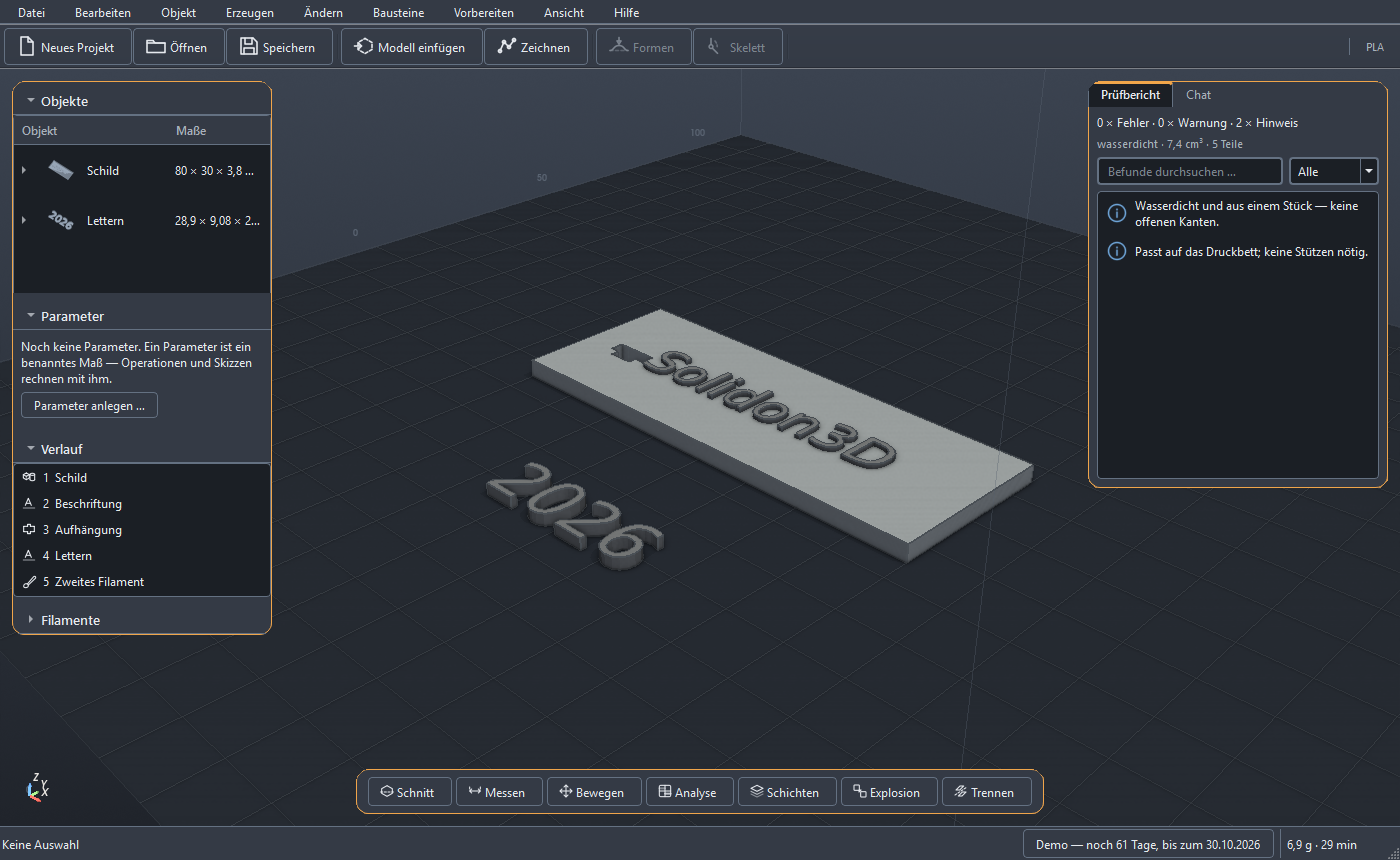
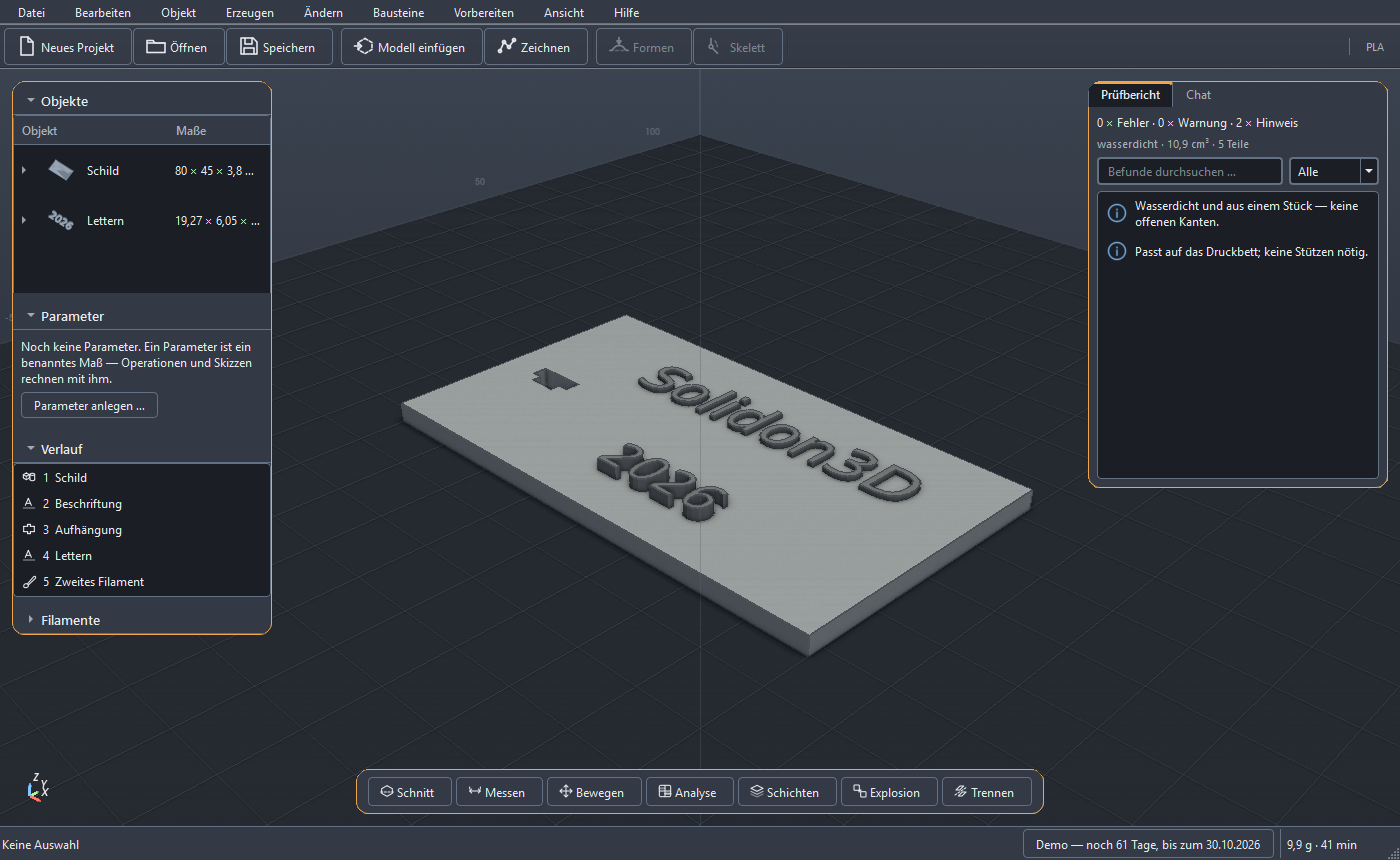
Zwei Kartenbeschriftungen waren als Gliederung gesetzt
Die Seite sprang von der H1 direkt auf Ebene drei: „Linux" und „macOS" in
den Auswahl-Dialogen der Downloadkarte standen als h3 und damit als
Unterpunkt von nichts. Beide Dialoge tragen ihren Namen ohnehin im
aria-label — die sichtbare Zeile wiederholte ihn und kostete dafür die
Gliederung. Sie sind jetzt Absätze mit derselben Größe und Stärke
(gemessen 18,4 px / 700, wie vorher), und die Überschriftenfolge läuft
durchgehend H1 → H2 → H3.

Gefunden hat es 72s Messung; von außen sah die Karte richtig aus, weil sie
richtig aussah.

Dazu der ruhige Zweitwortlaut der Drehbühne in allen sechs Fassungen. Der
Code dafür stand seit je in site.js und las hint.dataset.calm — nur das
Attribut fehlte, und damit lief der Zweig ins Leere: Wer die Bewegung
abgeschaltet hatte, las weiter „scrollen dreht ihn", während Scrollen genau
dann nichts tut.

Der erste Halbsatz bleibt je Sprache unverändert, nur die Bedienung nach dem
Gedankenstrich wechselt. Zwei ganz verschiedene Sätze über dasselbe Bild
wären eine zweite Wahrheit; gemeint ist derselbe Halter, nur ein anderer Weg
zu ihm.

92 Verweise gestempelt, test_website 347 grün.

diff --git a/website/index.html b/website/index.html
@@ -30,7 +30,7 @@
 <meta name="theme-color" content="#f7f6f3" media="(prefers-color-scheme: light)">
 <meta name="theme-color" content="#171614" media="(prefers-color-scheme: dark)">
 <link rel="icon" href="/icon.svg?v=a72d0c52" type="image/svg+xml">
-<link rel="stylesheet" href="style.css?v=dcd43678">
+<link rel="stylesheet" href="style.css?v=6d307ed0">
 <script type="application/ld+json">
 {
   "@context": "https://schema.org",
@@ -225,7 +225,7 @@
           <div class="turntable" tabindex="0" role="img" data-frames="36"
                aria-label="Ein Halter für Filamentrollen, in Solidon3D konstruiert: Grundplatte, zwei Wangen, zwei Laufachsen. Ziehen oder Pfeiltasten drehen ihn."></div>
         </div>
-        <p class="turn-hint">Rollenhalter, in 18 Schritten gebaut — scrollen dreht ihn, oder ziehen</p>
+        <p class="turn-hint" data-calm="Rollenhalter, in 18 Schritten gebaut — ziehen oder Pfeiltasten drehen ihn">Rollenhalter, in 18 Schritten gebaut — scrollen dreht ihn, oder ziehen</p>
 
         <div class="dial">
           <label for="rollenbreite">Rollenbreite</label>
@@ -280,7 +280,7 @@
             <a class="btn" href="/api/count.php?f=Solidon3D-Setup-0.2.2.exe" download="Solidon3D-Setup-0.2.2.exe"><svg viewBox="0 0 24 24" fill="none" stroke="currentColor" stroke-width="2" aria-hidden="true"><path d="M12 3v12" stroke-linecap="round"/><path d="m7 11 5 5 5-5" stroke-linecap="round" stroke-linejoin="round"/><path d="M4 20h16" stroke-linecap="round"/></svg> Windows 10/11 — 199 MB</a>
             <button class="btn ghost" type="button" data-choice="linux"><svg viewBox="0 0 24 24" fill="none" stroke="currentColor" stroke-width="2" aria-hidden="true"><path d="M12 3v12" stroke-linecap="round"/><path d="m7 11 5 5 5-5" stroke-linecap="round" stroke-linejoin="round"/><path d="M4 20h16" stroke-linecap="round"/></svg> Linux — 2 Pakete</button>
             <dialog class="auswahl" id="wahl-linux" aria-label="Linux">
-              <h3>Linux</h3>
+              <p class="auswahl-titel">Linux</p>
               <p class="hinweis">Welches passt, hängt von deinem System ab — jedes enthält dieselbe Anwendung.</p>
             <a class="btn" href="/api/count.php?f=Solidon3D-0.2.2-x86_64.AppImage" download="Solidon3D-0.2.2-x86_64.AppImage"><svg viewBox="0 0 24 24" fill="none" stroke="currentColor" stroke-width="2" aria-hidden="true"><path d="M12 3v12" stroke-linecap="round"/><path d="m7 11 5 5 5-5" stroke-linecap="round" stroke-linejoin="round"/><path d="M4 20h16" stroke-linecap="round"/></svg> AppImage — 391 MB</a>
             <a class="btn" href="/api/count.php?f=Solidon3D-0.2.2-x86_64.flatpak" download="Solidon3D-0.2.2-x86_64.flatpak"><svg viewBox="0 0 24 24" fill="none" stroke="currentColor" stroke-width="2" aria-hidden="true"><path d="M12 3v12" stroke-linecap="round"/><path d="m7 11 5 5 5-5" stroke-linecap="round" stroke-linejoin="round"/><path d="M4 20h16" stroke-linecap="round"/></svg> Flatpak — 281 MB</a>
@@ -288,7 +288,7 @@
             </dialog>
             <button class="btn ghost" type="button" data-choice="macos"><svg viewBox="0 0 24 24" fill="none" stroke="currentColor" stroke-width="2" aria-hidden="true"><path d="M12 3v12" stroke-linecap="round"/><path d="m7 11 5 5 5-5" stroke-linecap="round" stroke-linejoin="round"/><path d="M4 20h16" stroke-linecap="round"/></svg> macOS — 2 Pakete</button>
             <dialog class="auswahl" id="wahl-macos" aria-label="macOS">
-              <h3>macOS</h3>
+              <p class="auswahl-titel">macOS</p>
               <p class="hinweis">Welches passt, hängt von deinem System ab — jedes enthält dieselbe Anwendung.</p>
             <a class="btn" href="/api/count.php?f=Solidon3D-0.2.2-macos-arm64.pkg" download="Solidon3D-0.2.2-macos-arm64.pkg"><svg viewBox="0 0 24 24" fill="none" stroke="currentColor" stroke-width="2" aria-hidden="true"><path d="M12 3v12" stroke-linecap="round"/><path d="m7 11 5 5 5-5" stroke-linecap="round" stroke-linejoin="round"/><path d="M4 20h16" stroke-linecap="round"/></svg> Apple Silicon — 300 MB</a>
             <a class="btn" href="/api/count.php?f=Solidon3D-0.2.2-macos-x86_64.pkg" download="Solidon3D-0.2.2-macos-x86_64.pkg"><svg viewBox="0 0 24 24" fill="none" stroke="currentColor" stroke-width="2" aria-hidden="true"><path d="M12 3v12" stroke-linecap="round"/><path d="m7 11 5 5 5-5" stroke-linecap="round" stroke-linejoin="round"/><path d="M4 20h16" stroke-linecap="round"/></svg> Intel — 334 MB</a>
@@ -308,7 +308,7 @@
     </div>
   </section>
 
-  <section class="tint">
+  <section class="tint band">
     <div class="wrap">
       <div class="stats">
         <div><b>95</b><span>Operationen im Register</span></div>
@@ -582,7 +582,7 @@
       <div class="shot">
         <div class="stage">
           <div class="chrome" aria-hidden="true"><i></i><i></i><i></i></div>
-          <a href="bilder/beleg-fenster.png?v=3cea24fb"><img src="bilder/beleg-fenster.png?v=3cea24fb" width="1400" height="860" loading="lazy"
+          <a href="bilder/beleg-fenster.png?v=7e45afea"><img src="bilder/beleg-fenster.png?v=7e45afea" width="1400" height="860" loading="lazy"
                alt="Das Hauptfenster von Solidon3D: links der Objektbaum mit Parametern und Verlauf, in der Mitte die 3D-Ansicht, rechts der Prüfbericht"></a>
         </div>
       </div>
@@ -1000,7 +1000,7 @@
   </div>
 </footer>
 
-<script src="/site.js?v=61420345" defer></script>
+<script src="/site.js?v=4cc4fd70" defer></script>
 
 </body>
 </html>

diff --git a/website/funktionen.html b/website/funktionen.html
@@ -25,7 +25,7 @@
 <meta name="theme-color" content="#f7f6f3" media="(prefers-color-scheme: light)">
 <meta name="theme-color" content="#171614" media="(prefers-color-scheme: dark)">
 <link rel="icon" href="/icon.svg?v=a72d0c52" type="image/svg+xml">
-<link rel="stylesheet" href="style.css?v=dcd43678">
+<link rel="stylesheet" href="style.css?v=6d307ed0">
 </head>
 <body>
 <a class="skip" href="#content">Zum Inhalt springen</a>
@@ -72,7 +72,7 @@
         <div class="shot">
           <div class="stage">
             <div class="chrome" aria-hidden="true"><i></i><i></i><i></i></div>
-            <a href="bilder/beleg-fenster.png?v=3cea24fb"><img src="bilder/beleg-fenster.png?v=3cea24fb" width="1400" height="860" fetchpriority="high"
+            <a href="bilder/beleg-fenster.png?v=7e45afea"><img src="bilder/beleg-fenster.png?v=7e45afea" width="1400" height="860" fetchpriority="high"
                  alt="Das Hauptfenster von Solidon3D: links Objektbaum, Parameter und Verlauf, in der Mitte die 3D-Ansicht mit dem Modell, rechts der Prüfbericht mit seinen Befunden"></a>
           </div>
         </div>
@@ -190,7 +190,7 @@
         </div>
         <figure class="shot">
           <div class="stage">
-            <a href="bilder/beleg-skizze.png?v=02ab41b7"><img src="bilder/beleg-skizze.png?v=02ab41b7" width="1400" height="860" loading="lazy" decoding="async"
+            <a href="bilder/beleg-skizze.png?v=af2de0a1"><img src="bilder/beleg-skizze.png?v=af2de0a1" width="1400" height="860" loading="lazy" decoding="async"
                  alt="Der Skizzenmodus im Hauptfenster: Gezeichnet wird in der Ansicht selbst, über dem Modell liegt das Raster mit einem bemaßten Rechteck und einem Kreis; unten die schwebende Leiste mit Zeichenwerkzeugen, Rasterweite, der Zeile „Zeichenebene: Fläche an Schild — 2247 mm²“ und den Bedingungsknöpfen; rechts der Reiter „Bedingungen“ mit den dreizehn Bedingungen der Zeichnung"></a>
           </div>
           <figcaption>Gezeichnet wird in der Ansicht — auf der Fläche, die man angeklickt hat.</figcaption>
@@ -576,7 +576,7 @@
   </div>
 </footer>
 
-<script src="/site.js?v=61420345" defer></script>
+<script src="/site.js?v=4cc4fd70" defer></script>
 
 </body>
 </html>

diff --git a/website/fr/manual.html b/website/fr/manual.html
@@ -21,7 +21,7 @@
 <meta property="og:image" content="https://solidon3d.de/handbuch/fr/main-window.png">
 <meta name="twitter:card" content="summary_large_image">
 <link rel="icon" href="../icon.svg?v=a72d0c52" type="image/svg+xml">
-<link rel="stylesheet" href="../style.css?v=dcd43678">
+<link rel="stylesheet" href="../style.css?v=6d307ed0">
 <style>
     /* Der Text bleibt schmal, weil sich lange Zeilen schlecht lesen. Die
        Abbildungen dürfen darüber hinausragen: ein Bildschirmfoto auf halbe
@@ -1106,6 +1106,6 @@
 <p>Objets: 1 → 1 · réversible · déterministe</p>
 <table><thead><tr><th>Paramètres</th><th>Unité</th><th>Valeur par défaut</th><th>Plage</th><th>Signification</th></tr></thead><tbody><tr><td>Longueur d&#x27;arête <code>edge</code></td><td>mm</td><td>1</td><td>0,05 … 50</td><td>Quelle longueur les arêtes auront à peu près partout ensuite. Plus court signifie plus fin et plus gros — et le fin n&#x27;est nécessaire que là où l&#x27;on façonne ensuite.</td></tr><tr><td>Écart admissible <code>deviation</code></td><td>mm</td><td>0</td><td>0 … 1</td><td>De combien la surface peut se déplacer pour cela. Zéro laisse la forme intacte ; ce n&#x27;est qu&#x27;au-delà que disparaissent aussi les endroits inutilement fins.</td></tr></tbody></table>
 </main>
-<script src="/site.js?v=61420345" defer></script>
+<script src="/site.js?v=4cc4fd70" defer></script>
 </body>
 </html>

diff --git a/website/pt/manual.html b/website/pt/manual.html
@@ -21,7 +21,7 @@
 <meta property="og:image" content="https://solidon3d.de/handbuch/pt/main-window.png">
 <meta name="twitter:card" content="summary_large_image">
 <link rel="icon" href="../icon.svg?v=a72d0c52" type="image/svg+xml">
-<link rel="stylesheet" href="../style.css?v=dcd43678">
+<link rel="stylesheet" href="../style.css?v=6d307ed0">
 <style>
     /* Der Text bleibt schmal, weil sich lange Zeilen schlecht lesen. Die
        Abbildungen dürfen darüber hinausragen: ein Bildschirmfoto auf halbe
@@ -1106,6 +1106,6 @@
 <p>Objetos: 1 → 1 · reversível · determinista</p>
 <table><thead><tr><th>Parâmetros</th><th>Unidade</th><th>Predefinição</th><th>Intervalo</th><th>Significado</th></tr></thead><tbody><tr><td>Comprimento de aresta <code>edge</code></td><td>mm</td><td>1</td><td>0,05 … 50</td><td>Que comprimento têm as arestas aproximadamente por toda a parte depois. Mais curto significa mais fino e maior — e mais fino só é preciso onde depois se modela.</td></tr><tr><td>Desvio admissível <code>deviation</code></td><td>mm</td><td>0</td><td>0 … 1</td><td>Até que ponto a superfície pode deslocar-se para isso. Zero deixa a forma intacta; só acima disso desaparecem também os pontos desnecessariamente finos.</td></tr></tbody></table>
 </main>
-<script src="/site.js?v=61420345" defer></script>
+<script src="/site.js?v=4cc4fd70" defer></script>
 </body>
 </html>

diff --git a/website/fr/index.html b/website/fr/index.html
@@ -27,7 +27,7 @@
 <meta name="theme-color" content="#f7f6f3" media="(prefers-color-scheme: light)">
 <meta name="theme-color" content="#171614" media="(prefers-color-scheme: dark)">
 <link rel="icon" href="/icon.svg?v=a72d0c52" type="image/svg+xml">
-<link rel="stylesheet" href="../style.css?v=dcd43678">
+<link rel="stylesheet" href="../style.css?v=6d307ed0">
 <script type="application/ld+json">
 {
   "@context": "https://schema.org",
@@ -222,7 +222,7 @@
           <div class="turntable" tabindex="0" role="img" data-frames="36"
                aria-label="Un support pour bobines de filament, construit dans Solidon3D&nbsp;: plaque de base, deux joues, deux axes de roulement. Faites-le glisser ou utilisez les flèches pour le tourner."></div>
         </div>
-        <p class="turn-hint">Support de bobines, construit en 18 étapes — le défilement le tourne, ou faites-le glisser</p>
+        <p class="turn-hint" data-calm="Support de bobines, construit en 18 étapes — faites-le glisser ou tournez-le avec les flèches">Support de bobines, construit en 18 étapes — le défilement le tourne, ou faites-le glisser</p>
 
         <div class="dial">
           <label for="rollenbreite">Largeur de bobine</label>
@@ -996,7 +996,7 @@
   </div>
 </footer>
 
-<script src="/site.js?v=61420345" defer></script>
+<script src="/site.js?v=4cc4fd70" defer></script>
 
 </body>
 </html>

diff --git a/website/it/manual.html b/website/it/manual.html
@@ -21,7 +21,7 @@
 <meta property="og:image" content="https://solidon3d.de/handbuch/it/main-window.png">
 <meta name="twitter:card" content="summary_large_image">
 <link rel="icon" href="../icon.svg?v=a72d0c52" type="image/svg+xml">
-<link rel="stylesheet" href="../style.css?v=dcd43678">
+<link rel="stylesheet" href="../style.css?v=6d307ed0">
 <style>
     /* Der Text bleibt schmal, weil sich lange Zeilen schlecht lesen. Die
        Abbildungen dürfen darüber hinausragen: ein Bildschirmfoto auf halbe
@@ -1106,6 +1106,6 @@
 <p>Oggetti: 1 → 1 · reversibile · deterministico</p>
 <table><thead><tr><th>Parametri</th><th>Unità</th><th>Valore predefinito</th><th>Intervallo</th><th>Significato</th></tr></thead><tbody><tr><td>Lunghezza dello spigolo <code>edge</code></td><td>mm</td><td>1</td><td>0,05 … 50</td><td>Quanto sono lunghi all&#x27;incirca gli spigoli dappertutto, dopo. Più corto significa più fine e più grande — e più fine serve solo dove poi si modella.</td></tr><tr><td>Scostamento ammesso <code>deviation</code></td><td>mm</td><td>0</td><td>0 … 1</td><td>Di quanto la superficie può spostarsi per farlo. Zero lascia la forma intatta; solo oltre spariscono anche i punti inutilmente fini.</td></tr></tbody></table>
 </main>
-<script src="/site.js?v=61420345" defer></script>
+<script src="/site.js?v=4cc4fd70" defer></script>
 </body>
 </html>

diff --git a/website/ki-modelle.html b/website/ki-modelle.html
@@ -25,7 +25,7 @@
 <meta name="theme-color" content="#f7f6f3" media="(prefers-color-scheme: light)">
 <meta name="theme-color" content="#171614" media="(prefers-color-scheme: dark)">
 <link rel="icon" href="/icon.svg?v=a72d0c52" type="image/svg+xml">
-<link rel="stylesheet" href="style.css?v=dcd43678">
+<link rel="stylesheet" href="style.css?v=6d307ed0">
 </head>
 <body>
 <a class="skip" href="#content">Zum Inhalt springen</a>
@@ -72,8 +72,8 @@
         <div class="shot">
           <div class="stage">
             <div class="chrome" aria-hidden="true"><i></i><i></i><i></i></div>
-            <a href="bilder/beleg-erzeugt.png?v=9752c644">
-              <img src="bilder/beleg-erzeugt.png?v=9752c644" width="1400" height="860" fetchpriority="high"
+            <a href="bilder/beleg-erzeugt.png?v=982174eb">
+              <img src="bilder/beleg-erzeugt.png?v=982174eb" width="1400" height="860" fetchpriority="high"
                    alt="Solidon3D mit einer aus einem Satz erzeugten Eule: links der Verlauf mit „Modell laden“, „Auf Maß bringen“ und „Auf das Bett setzen“, in der Mitte die Figur auf dem Druckbett, rechts der Prüfbericht">
             </a>
           </div>
@@ -260,6 +260,6 @@
   </div>
 </footer>
 
-<script src="/site.js?v=61420345" defer></script>
+<script src="/site.js?v=4cc4fd70" defer></script>
 </body>
 </html>

diff --git a/website/pt/index.html b/website/pt/index.html
@@ -27,7 +27,7 @@
 <meta name="theme-color" content="#f7f6f3" media="(prefers-color-scheme: light)">
 <meta name="theme-color" content="#171614" media="(prefers-color-scheme: dark)">
 <link rel="icon" href="/icon.svg?v=a72d0c52" type="image/svg+xml">
-<link rel="stylesheet" href="../style.css?v=dcd43678">
+<link rel="stylesheet" href="../style.css?v=6d307ed0">
 <script type="application/ld+json">
 {
   "@context": "https://schema.org",
@@ -221,7 +221,7 @@
           <div class="turntable" tabindex="0" role="img" data-frames="36"
                aria-label="Um suporte para bobinas de filamento, construído no Solidon3D: placa de base, duas laterais, dois eixos de rolamento. Arraste-o ou use as setas para o rodar."></div>
         </div>
-        <p class="turn-hint">Suporte de bobinas, feito em 18 passos — deslocar a página roda-o, ou arraste-o</p>
+        <p class="turn-hint" data-calm="Suporte de bobinas, feito em 18 passos — arraste-o ou rode-o com as setas">Suporte de bobinas, feito em 18 passos — deslocar a página roda-o, ou arraste-o</p>
 
         <div class="dial">
           <label for="rollenbreite">Largura da bobina</label>
@@ -978,7 +978,7 @@
   </div>
 </footer>
 
-<script src="/site.js?v=61420345" defer></script>
+<script src="/site.js?v=4cc4fd70" defer></script>
 
 </body>
 </html>

diff --git a/website/it/index.html b/website/it/index.html
@@ -27,7 +27,7 @@
 <meta name="theme-color" content="#f7f6f3" media="(prefers-color-scheme: light)">
 <meta name="theme-color" content="#171614" media="(prefers-color-scheme: dark)">
 <link rel="icon" href="/icon.svg?v=a72d0c52" type="image/svg+xml">
-<link rel="stylesheet" href="../style.css?v=dcd43678">
+<link rel="stylesheet" href="../style.css?v=6d307ed0">
 <script type="application/ld+json">
 {
   "@context": "https://schema.org",
@@ -222,7 +222,7 @@
           <div class="turntable" tabindex="0" role="img" data-frames="36"
                aria-label="Un supporto per bobine di filamento, costruito in Solidon3D: piastra di base, due fianchi, due assi di rotolamento. Trascinalo o usa le frecce per girarlo."></div>
         </div>
-        <p class="turn-hint">Portabobine, costruito in 18 passi — lo scorrimento lo gira, oppure trascinalo</p>
+        <p class="turn-hint" data-calm="Portabobine, costruito in 18 passi — trascinalo o giralo con le frecce">Portabobine, costruito in 18 passi — lo scorrimento lo gira, oppure trascinalo</p>
 
         <div class="dial">
           <label for="rollenbreite">Larghezza bobina</label>
@@ -974,7 +974,7 @@
   </div>
 </footer>
 
-<script src="/site.js?v=61420345" defer></script>
+<script src="/site.js?v=4cc4fd70" defer></script>
 
 </body>
 </html>

diff --git a/website/es/index.html b/website/es/index.html
@@ -27,7 +27,7 @@
 <meta name="theme-color" content="#f7f6f3" media="(prefers-color-scheme: light)">
 <meta name="theme-color" content="#171614" media="(prefers-color-scheme: dark)">
 <link rel="icon" href="/icon.svg?v=a72d0c52" type="image/svg+xml">
-<link rel="stylesheet" href="../style.css?v=dcd43678">
+<link rel="stylesheet" href="../style.css?v=6d307ed0">
 <script type="application/ld+json">
 {
   "@context": "https://schema.org",
@@ -221,7 +221,7 @@
           <div class="turntable" tabindex="0" role="img" data-frames="36"
                aria-label="Un soporte para bobinas de filamento, construido en Solidon3D: placa base, dos flancos, dos ejes de rodadura. Arrástralo o usa las flechas para girarlo."></div>
         </div>
-        <p class="turn-hint">Soporte de bobinas, hecho en 18 pasos — al desplazarte gira, o arrástralo</p>
+        <p class="turn-hint" data-calm="Soporte de bobinas, hecho en 18 pasos — arrástralo o gíralo con las flechas">Soporte de bobinas, hecho en 18 pasos — al desplazarte gira, o arrástralo</p>
 
         <div class="dial">
           <label for="rollenbreite">Ancho de bobina</label>
@@ -986,7 +986,7 @@
   </div>
 </footer>
 
-<script src="/site.js?v=61420345" defer></script>
+<script src="/site.js?v=4cc4fd70" defer></script>
 
 </body>
 </html>

diff --git a/website/es/manual.html b/website/es/manual.html
@@ -21,7 +21,7 @@
 <meta property="og:image" content="https://solidon3d.de/handbuch/es/main-window.png">
 <meta name="twitter:card" content="summary_large_image">
 <link rel="icon" href="../icon.svg?v=a72d0c52" type="image/svg+xml">
-<link rel="stylesheet" href="../style.css?v=dcd43678">
+<link rel="stylesheet" href="../style.css?v=6d307ed0">
 <style>
     /* Der Text bleibt schmal, weil sich lange Zeilen schlecht lesen. Die
        Abbildungen dürfen darüber hinausragen: ein Bildschirmfoto auf halbe
@@ -1106,6 +1106,6 @@
 <p>Objetos: 1 → 1 · reversible · determinista</p>
 <table><thead><tr><th>Parámetros</th><th>Unidad</th><th>Valor por defecto</th><th>Rango</th><th>Significado</th></tr></thead><tbody><tr><td>Longitud de arista <code>edge</code></td><td>mm</td><td>1</td><td>0,05 … 50</td><td>Qué tan fina queda la superficie nueva. Más corto significa más redondo y más caro.</td></tr><tr><td>Ángulo de arista <code>angle</code></td><td>°</td><td>52,5</td><td>0 … 180</td><td>A partir de qué ángulo una arista se mantiene viva. Un valor menor redondea más; por encima de noventa incluso un prisma pierde sus esquinas.</td></tr></tbody></table>
 </main>
-<script src="/site.js?v=61420345" defer></script>
+<script src="/site.js?v=4cc4fd70" defer></script>
 </body>
 </html>

diff --git a/website/en/index.html b/website/en/index.html
@@ -30,7 +30,7 @@
 <meta name="theme-color" content="#f7f6f3" media="(prefers-color-scheme: light)">
 <meta name="theme-color" content="#171614" media="(prefers-color-scheme: dark)">
 <link rel="icon" href="/icon.svg?v=a72d0c52" type="image/svg+xml">
-<link rel="stylesheet" href="../style.css?v=dcd43678">
+<link rel="stylesheet" href="../style.css?v=6d307ed0">
 <script type="application/ld+json">
 {
   "@context": "https://schema.org",
@@ -224,7 +224,7 @@
           <div class="turntable" tabindex="0" role="img" data-frames="36"
                aria-label="A holder for filament spools, built in Solidon3D: base plate, two cheeks, two rollers. Drag it or use the arrow keys to turn it."></div>
         </div>
-        <p class="turn-hint">Spool holder, built in 18 steps — scrolling turns it, or drag it</p>
+        <p class="turn-hint" data-calm="Spool holder, built in 18 steps — drag it or use the arrow keys to turn it">Spool holder, built in 18 steps — scrolling turns it, or drag it</p>
 
         <div class="dial">
           <label for="rollenbreite">Spool width</label>
@@ -965,7 +965,7 @@
   </div>
 </footer>
 
-<script src="/site.js?v=61420345" defer></script>
+<script src="/site.js?v=4cc4fd70" defer></script>
 
 </body>
 </html>
